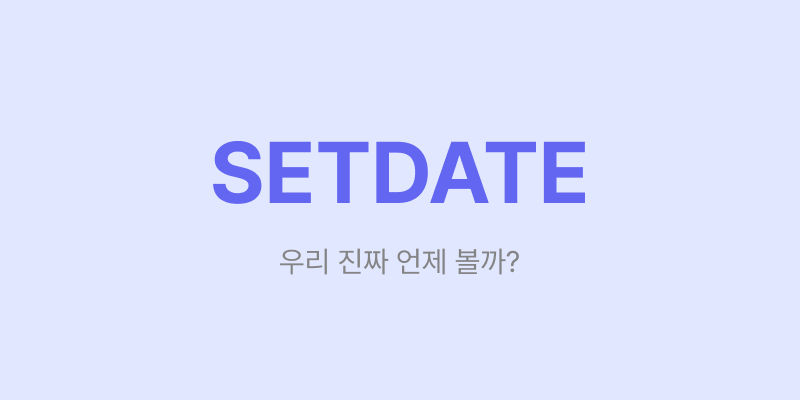
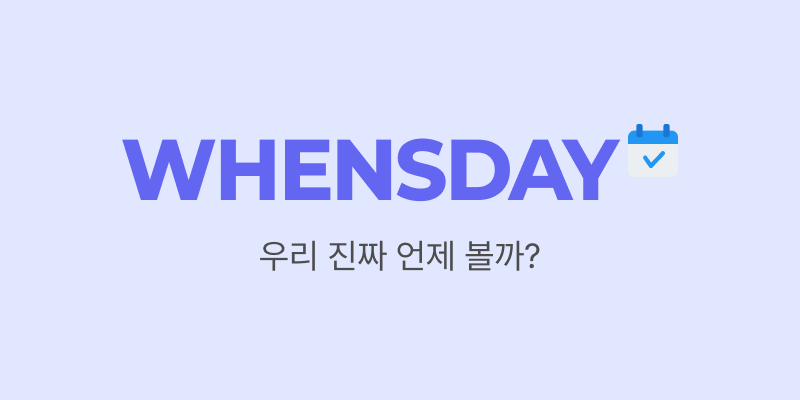
og img 및 타이틀 자간 변경

Changed region(s): [[0.1562, 0.3, 0.875, 0.51], [0.3125, 0.6, 0.6875, 0.69]]

diff --git a/src/views/HomeView.vue b/src/views/HomeView.vue
@@ -2,7 +2,7 @@
   <div class="min-h-screen bg-gradient-to-b from-primary-light to-white flex flex-col">
     <div class="flex flex-col items-center px-6 pb-10 pt-20">
       <h1 class="font-brand text-4xl font-black tracking-widest text-primary uppercase">WHENSDAY</h1>
-      <p class="mt-2 text-sm font-medium text-gray-500">우리 진짜 언제 볼까?</p>
+      <p class="mt-2 text-sm font-medium text-gray-500 tracking-wider">우리 진짜 언제 볼까?</p>
     </div>
 
     <div class="flex-1 rounded-t-3xl bg-white px-5 pb-8 pt-8 shadow-sm">
